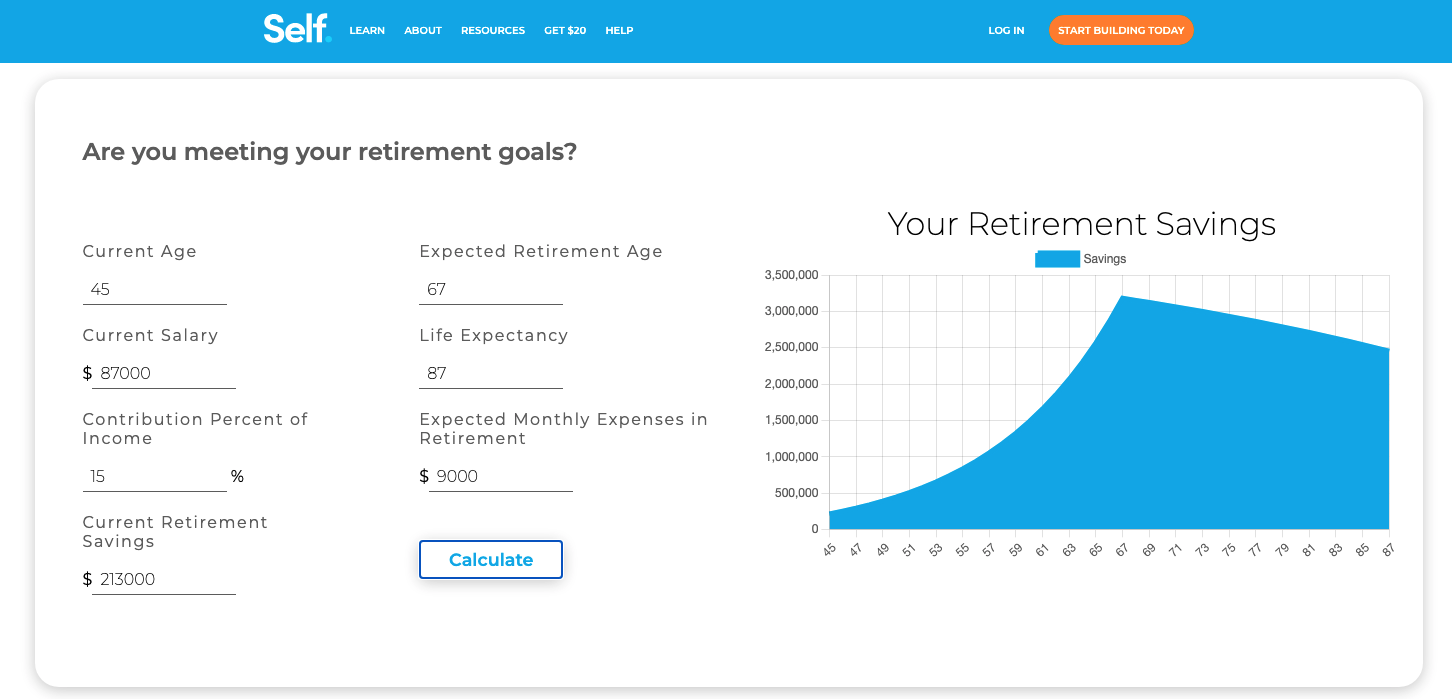
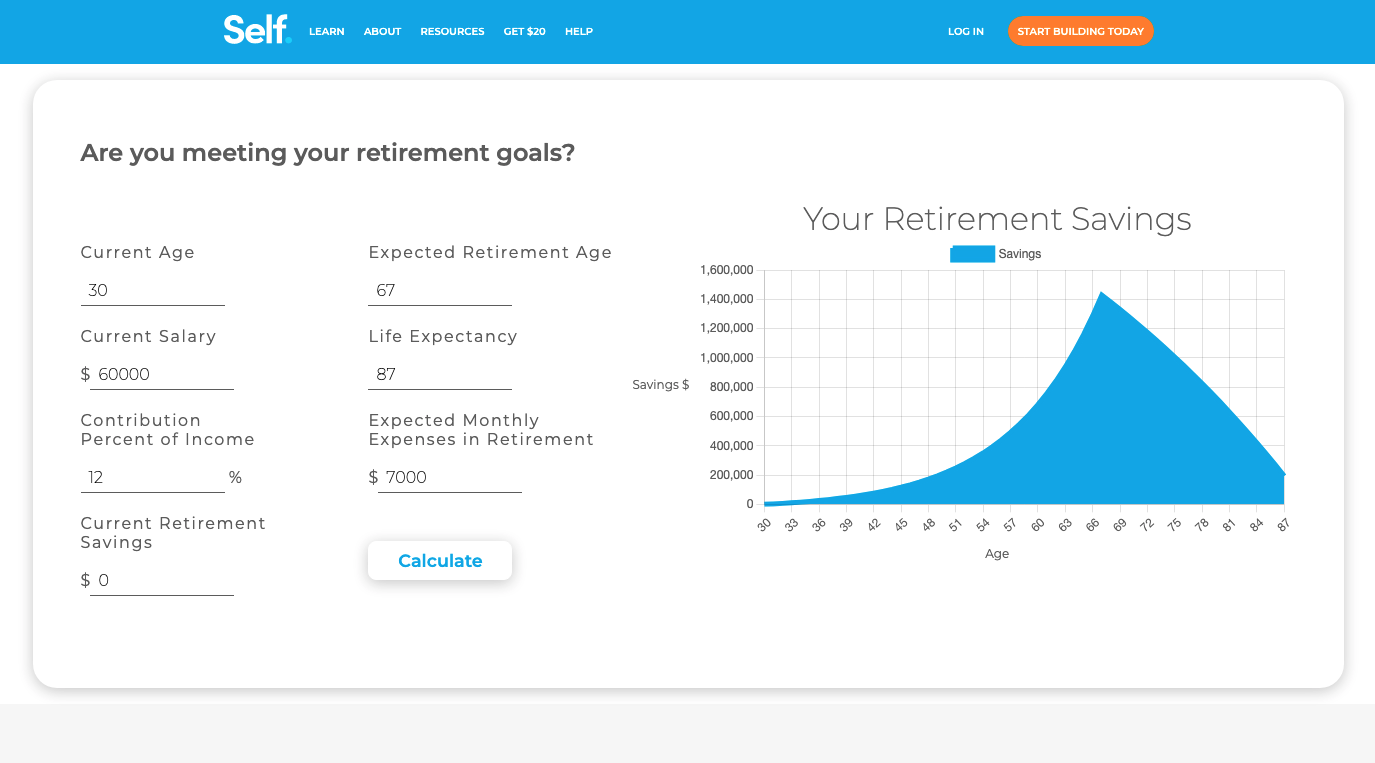
modify readme file

diff --git a/client/src/utils/calculator.js b/client/src/utils/calculator.js
@@ -19,9 +19,9 @@ const Calculation = (calculationProperties, currentYear) => {
     workingSavingsArr.push({ ...currentYearData });
     currentYearData.year++
     currentYearData.currentAge++
-    currentYearData.currentRetirementSavings = twoDec((((parseFloat(currentYearData.currentRetirementSavings) + (parseFloat(currentYearData.currentSalary) * parseFloat(contributionPercentOfIncome / 100))) * parseFloat(investmentAnnualReturn))))
+    currentYearData.currentRetirementSavings = twoDec((((parseFloat(currentYearData.currentRetirementSavings) + (parseFloat(currentYearData.currentSalary) * parseFloat(contributionPercentOfIncome / 250))) * parseFloat(investmentAnnualReturn))))
     currentYearData.currentSalary = twoDec(parseFloat((currentYearData.currentSalary * parseFloat(expectedAnnualIncomeIncreasePercent))))
-    currentYearData.totalAmountContributed = twoDec(parseFloat(currentYearData.currentSalary * parseFloat(contributionPercentOfIncome / 100)))
+    currentYearData.totalAmountContributed = twoDec(parseFloat(currentYearData.currentSalary * parseFloat(contributionPercentOfIncome / 250)))
     currentYearData.returnFromInterest = twoDec(parseFloat(currentYearData.currentRetirementSavings - parseFloat(currentYearData.totalAmountContributed)))
   }
   for (let j = parseInt(retirementAge) + 1; j <= parseInt(lifeExpectancy) + 1; j++) {

diff --git a/client/src/styles/styles.scss b/client/src/styles/styles.scss
@@ -225,6 +225,7 @@ height: 20px;
     align-self: flex-start;
     background-color: white;
     display: flex;
+    color: $drkGray;
 
     &-inner-container {
       width: 600px;
@@ -262,6 +263,7 @@ height: 20px;
   display: flex;
   flex-direction: column;
   justify-content: flex-start;
+  color: $drkGray;
 
   h2 {
     margin-bottom: 4rem;
